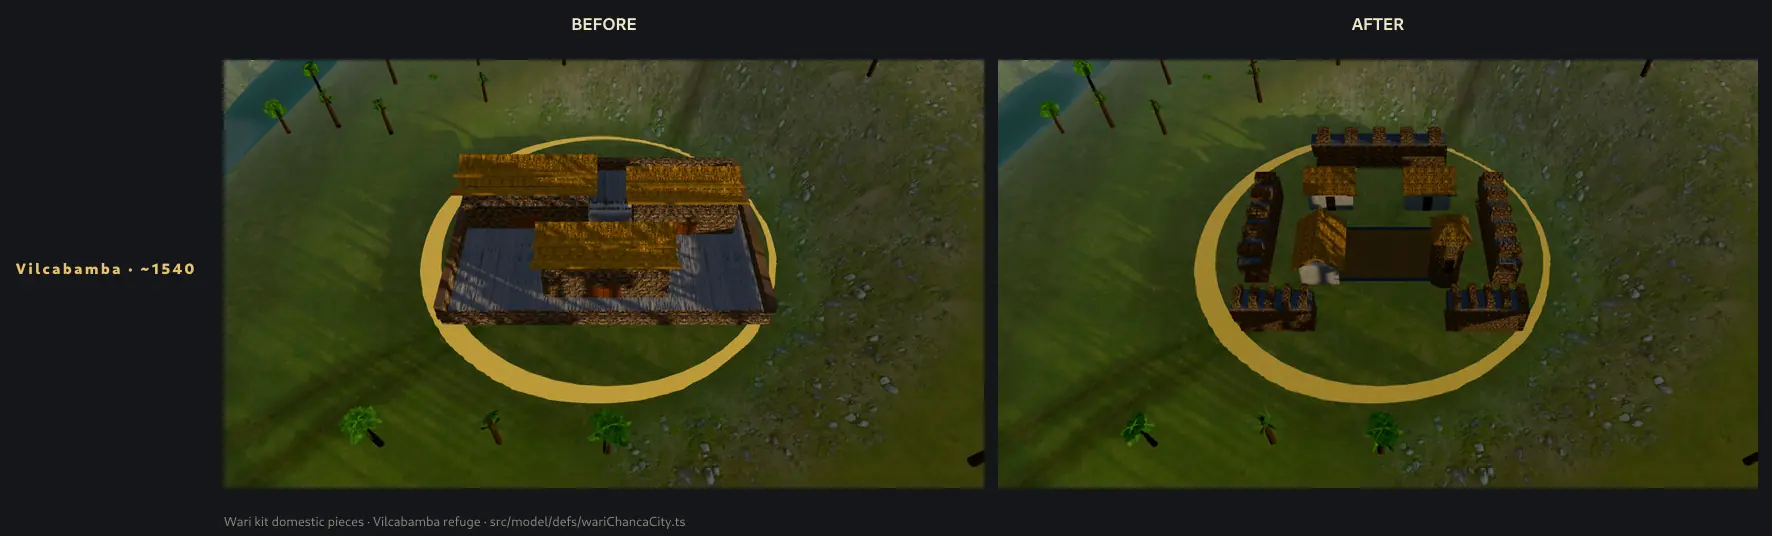
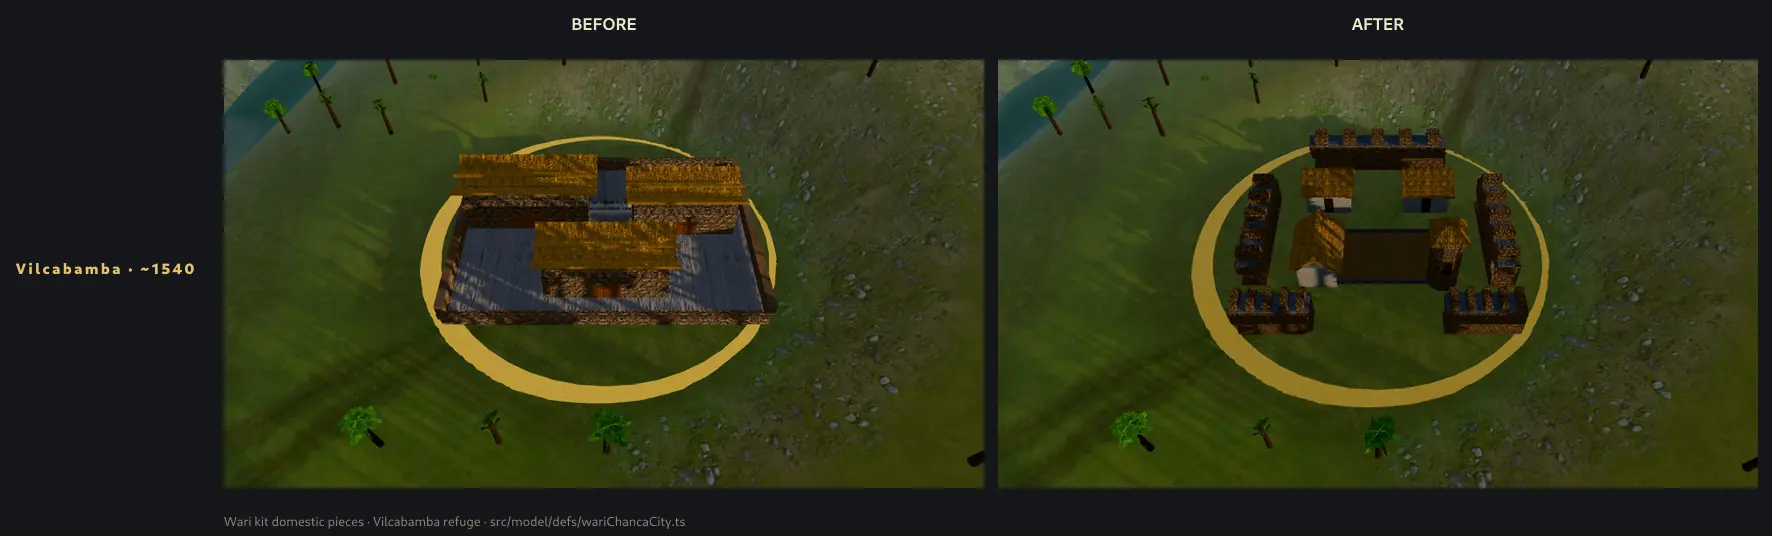
fix(architecture): anchor the refuge and finish the landmark retirement
Review fixes on the Vilcabamba change:

- Anchor `vilcabamba_site` on the refuge (180, 97) instead of the Chanca point 68 m away, so the camera,
  `ref: 'landmark'` and the corridor agree with the layout.
- Remove the leftovers of the `SiteLandmarks` removal: the unused `THREE` import and the dead
  `siteLandmarks` assertions (now impossible to satisfy), and the orphaned JSDoc in `Game` and
  `campaign/types.ts`.
- Cover the refuge in the Wari kit test (layout assets, spacing, gate open, blockers) and document the
  gate as about 9 m.
- Sync the living docs that still called the refuge procedural: art-direction §4.2, the quality bar,
  the visual pilot, the asset-corrections log and the kit doc's site list and pad table.

diff --git a/tests/wari-architecture-kit.test.ts b/tests/wari-architecture-kit.test.ts
@@ -8,8 +8,11 @@ import {
   CHANCA_CITY_LAYOUT,
   WARI_CITY_ANCHOR,
   WARI_CITY_LAYOUT,
+  VILCABAMBA_REFUGE_ANCHOR,
+  VILCABAMBA_REFUGE_LAYOUT,
   WARI_KIT_FOOTPRINTS,
   chancaCityBlockers,
+  vilcabambaRefugeBlockers,
   wariCityBlockers,
 } from '../src/model/defs/wariChancaCity';
 import { AUTHORED_SITES } from '../src/model/defs/sites';
@@ -122,7 +125,7 @@ describe('wari architecture kit', () => {
   });
 
   it('places every layout asset from the kit', () => {
-    for (const layout of [WARI_CITY_LAYOUT, CHANCA_CITY_LAYOUT]) {
+    for (const layout of [WARI_CITY_LAYOUT, CHANCA_CITY_LAYOUT, VILCABAMBA_REFUGE_LAYOUT]) {
       for (const placement of layout) {
         expect(names, `${placement.asset} in the kit`).toContain(placement.asset);
       }
@@ -174,7 +177,7 @@ describe('highland layouts', () => {
   });
 
   it('leaves ≥2 m between buildings; the pucará walls and towers meet at their corners', () => {
-    for (const layout of [WARI_CITY_LAYOUT, CHANCA_CITY_LAYOUT]) {
+    for (const layout of [WARI_CITY_LAYOUT, CHANCA_CITY_LAYOUT, VILCABAMBA_REFUGE_LAYOUT]) {
       const solid = layoutBlockers(
         layout.filter((placement) => !placement.lift),
         WARI_KIT_FOOTPRINTS,
@@ -203,10 +206,22 @@ describe('highland layouts', () => {
     }
   });
 
+  it('draws the Vilcabamba refuge with its south gate open', () => {
+    const blockers = vilcabambaRefugeBlockers();
+    const a = VILCABAMBA_REFUGE_ANCHOR;
+    expect(blockers).toHaveLength(9);
+    expect(blockersCover(blockers, a.x, a.z - 11), 'north wall').toBe(true);
+    expect(blockersCover(blockers, a.x - 10.5, a.z), 'west wall').toBe(true);
+    expect(blockersCover(blockers, a.x - 4.6, a.z - 5), 'longhouse').toBe(true);
+    expect(blockersCover(blockers, a.x, a.z + 2), 'plaza').toBe(false);
+    expect(blockersCover(blockers, a.x, a.z + 9), 'south gate').toBe(false);
+  });
+
   it('is the collision each site uses', () => {
     expect(AUTHORED_SITES.wari_site.blockers).toEqual(wariCityBlockers());
     expect(AUTHORED_SITES.chanca_site.blockers).toEqual(chancaCityBlockers());
-    for (const id of ['wari_site', 'chanca_site'] as const) {
+    expect(AUTHORED_SITES.vilcabamba_site.blockers).toEqual(vilcabambaRefugeBlockers());
+    for (const id of ['wari_site', 'chanca_site', 'vilcabamba_site'] as const) {
       expect(AUTHORED_SITES[id].simulationCollision, id).toBe(true);
       expect(AUTHORED_SITES[id].style, id).toBe('wari');
       expect(AUTHORED_SITES[id].hideModel, id).toBe(true);

diff --git a/tests/site-landmarks.test.ts b/tests/site-landmarks.test.ts
@@ -1,4 +1,3 @@
-import * as THREE from 'three';
 import { describe, expect, it } from 'vitest';
 import { MISSIONS } from '../src/campaign/defs/campaign';
 import { CivId, Era } from '../src/core/types';
@@ -19,7 +18,6 @@ describe('mission site landmarks', () => {
     // Quipaipán and Cusco 1536 share one authored site and one composition (cuscoCity.ts): showing the grey
     // ushnu GLB in one campaign and the finished city in the other was the inconsistency this pins shut.
     for (const id of ['m_cusco_1536', 'm6b_guerra_civil']) {
-      expect(mission(id).layout?.siteLandmarks, id).toBeUndefined();
       expect(mission(id).layout?.site?.id, id).toBe('cusco_inca_site');
       expect(mission(id).layout?.site?.hideModel, id).toBe(true);
     }
@@ -36,9 +34,6 @@ describe('mission site landmarks', () => {
   it('draws the Republican sites from the kit and hides the borrowed GLBs', () => {
     // Arica, Real Felipe and Tarapacá no longer use mission-scoped procedural landmarks: the Republican
     // kit draws their compositions from one shared layout-and-blocker source.
-    for (const id of ['m9_guerra_pacifico', 'm_real_felipe', 'm_tarapaca']) {
-      expect(mission(id).layout?.siteLandmarks, id).toBeUndefined();
-    }
     for (const siteId of ['arica_site', 'real_felipe_site', 'tarapaca_site'] as const) {
       const site = getAuthoredSite(siteId)!;
       expect(site.hideModel, siteId).toBe(true);
@@ -53,9 +48,6 @@ describe('mission site landmarks', () => {
   });
 
   it('draws the Independence sites from the kit and hides the borrowed GLB', () => {
-    for (const id of ['m8_independencia', 'm_brena']) {
-      expect(mission(id).layout?.siteLandmarks, id).toBeUndefined();
-    }
     for (const siteId of ['independence_site', 'brena_site'] as const) {
       const site = getAuthoredSite(siteId)!;
       expect(site.hideModel, siteId).toBe(true);

diff --git a/src/campaign/types.ts b/src/campaign/types.ts
@@ -114,8 +114,8 @@ export interface MissionSite {
   /** Vertical offset of the model floor in world metres. */
   y?: number;
   /**
-   * Mission-scoped replacement of the authored GLB by the mission's procedural landmarks.
-   * Needed when two missions share a site but only one should drop the bundled model (Cusco).
+   * Drops the bundled site GLB (the site's architecture kit draws instead). Needed when two missions share a
+   * site but only one should drop the model (Cusco).
    */
   hideModel?: boolean;
   /** Optional camera framing anchor for the intro. */
@@ -164,10 +164,6 @@ export interface MissionLayout {
   setpiece?: MissionSetpiece;
   /** Authored site model; takes precedence over the modular setpiece. */
   site?: MissionSite;
-  /**
-   * Mission-scoped procedural landmarks that complete or replace the authored site model (the
-   * Vilcabamba refuge; Cusco and the Republican sites draw from their kits).
-   */
   terrain?: TerrainLayout;
   /** Authored canal used by a mission mechanic (visual-only geometry + a reach target). */
   canal?: MissionCanal;

diff --git a/tests/tarapaca.test.ts b/tests/tarapaca.test.ts
@@ -83,7 +83,6 @@ describe('Tarapacá battle contract', () => {
     expect(blockersCover(site.blockers, 106, 168), 'the east approach must stay walkable').toBe(false);
     expect(blockersCover(site.blockers, 160, 123), 'the crest has its parapet').toBe(true);
     expect(blockersCover(site.blockers, 198, 158), 'Pachica has its corral').toBe(true);
-    expect(mTarapaca.layout?.siteLandmarks).toBeUndefined();
     expect(mTarapaca.layout?.terrain?.flats?.map((f) => f.name)).not.toContain('Alturas');
     expect(mTarapaca.mapOverrides?.resources?.scatter).toBe(0);
     expect(mTarapaca.mapOverrides?.culturalLandscape).toBeNull();

diff --git a/src/model/defs/wariChancaCity.ts b/src/model/defs/wariChancaCity.ts
@@ -88,7 +88,7 @@ export function chancaCityBlockers() {
  * longhouses, a small plaza, a perimeter wall and the Huayna Pucará tower. It is a late-Inca settlement, not
  * an imperial complex, so the D-shaped temple, the galleries and the niches stay out of it.
  *
- * The perimeter wall keeps a **5 m gate** on the south side: the refuge must never be a sealed box (the
+ * The perimeter wall keeps a **wide south gate** (about 9 m): the refuge must never be a sealed box (the
  * no-walkable-building rule needs a way in for the mission's columns).
  */
 export const VILCABAMBA_REFUGE_ANCHOR = { x: 180, z: 97 } as const;

diff --git a/src/core/Game.ts b/src/core/Game.ts
@@ -243,7 +243,6 @@ export class Game {
   colonialSite: ColonialLife | null = null;
   /** The loaded authored site GLB, so a founding can hide it until the city phase. */
   siteModel: THREE.Group | null = null;
-  /** Mission-scoped procedural landmarks that complete or replace the authored site model. */
   /** Presentation-only construction crew in the Caral camp (issue 422); null elsewhere. */
   siteCrew: SiteCrew | null = null;
   /** Named environmental events and their progress (0 = off, 1 = fully applied). */

diff --git a/src/model/defs/sites.ts b/src/model/defs/sites.ts
@@ -1174,10 +1174,10 @@ export const AUTHORED_SITES: Record<AuthoredSiteId, AuthoredSiteDef> = {
     modelName: 'chanca_site',
     hideModel: true,
     style: 'wari',
-    scale: chancaLength(0.7),
-    origin: chancaPoint({ x: 112.4, z: 60.8 }),
-    anchor: chancaPoint({ x: 112.4, z: 60.8 }),
-    cameraHeight: chancaLength(48),
+    scale: 1,
+    origin: { x: 180, z: 97 },
+    anchor: { x: 180, z: 97 },
+    cameraHeight: 50,
     framing: 'site-biased',
     heightField: {
       size: CHANCA_HEIGHTMAP_SIZE,

diff --git a/docs/design/wari-chanca-sites.md b/docs/design/wari-chanca-sites.md
@@ -1,8 +1,9 @@
 # Wari kit: Wari complex and Chanca pucará
 
-The two highland missions draw their architecture from a shared Blender kit: the Wari complex (`m4_wari`)
-and the Chanca pucará of Yahuar Pampa (`m5_yahuar_pampa`). Both are project-owned representative massings,
-**not surveys and not historical photographs**.
+The highland missions draw their architecture from a shared Blender kit: the Wari complex (`m4_wari`), the
+Chanca pucará of Yahuar Pampa (`m5_yahuar_pampa`) and the Vilcabamba refuge (`m_vilcabamba`, which uses the
+kit's domestic pieces). They are project-owned representative massings, **not surveys and not historical
+photographs**.
 
 ## Sources
 
@@ -18,9 +19,10 @@ and the Chanca pucará of Yahuar Pampa (`m5_yahuar_pampa`). Both are project-own
   Kit scene `art-src/blender/scenes/wari_architecture_kit.blend` (Git LFS); uncompressed exports and
   per-piece manifests in `art-src/blender/exports/wari/architecture/`; the game copies are meshopt-
   compressed with `yarn art:models --only=<file>`.
-- Layout: [`../../src/model/defs/wariChancaCity.ts`](../../src/model/defs/wariChancaCity.ts) places both
+- Layout: [`../../src/model/defs/wariChancaCity.ts`](../../src/model/defs/wariChancaCity.ts) places the three
   compositions and derives each site's blockers from the same placements (`layoutBlockers`).
-  `WorldViewDecor` bakes them with `ArchitectureCity`; both sites set `hideModel` and `simulationCollision`.
+  `WorldViewDecor` bakes them with `ArchitectureCity`; all three sites set `hideModel` and
+  `simulationCollision`.
   The old `wari_site` and `chanca_fortress` GLBs stay in the registry and are no longer drawn.
 - `?lod=0` previews LOD0.
 
@@ -35,6 +37,7 @@ below the temple.
 | --- | --- |
 | Complejo Wari (`wariHeightmap.ts`) | 5.0 m (x 127–175, z 90–142 flat) |
 | Pucará chanca (`chancaHeightmap.ts`) | 5.0 m (x 168–196, z 82–110 flat) |
+| Refugio de Vilcabamba (`vilcabambaHeightmap.ts`) | 5.0 m (x 168–196, z 85–109 flat) |
 
 The Wari composition stays on that flat core (the pad falls away west of x 127), so every piece seats within
 0.1 m; the pucará sits on its own 5.0 m terrace.

diff --git a/docs/plan/0.2.1-asset-corrections.md b/docs/plan/0.2.1-asset-corrections.md
@@ -135,7 +135,7 @@ Add one focused test file (or extend `tests/model-assets.test.ts` if it exists) 
 | 5 | P1-4 | Cusco and Sacsayhuamán: plaza, ushnu and a wall front; or relabel the scene as the siege camp. **Done:** the Cusco architecture kit draws the plaza, tiered ushnu, kallankas and the Sacsayhuamán wall front with its three towers. | `cuscoCity.ts`, `build_cusco_architecture_kit.py` | M |
 | 6 | P1-3 | Real Felipe: minimal bastioned plan (four bastions, ditch, wall). **Done:** the Republican kit's bastioned trace (four curtains, four bastions, magazine, well and sally gates) replaces the Arica battery. | `republicCity.ts`, `build_republic_architecture_kit.py` | M |
 | 7 | P1-5 | Tarapacá: quebrada heightfield and adobe village. **Done:** the site moved to the quebrada, and the Republican kit draws the adobe village, chapel, crest and Pachica hamlet. | `republicCity.ts`, `build_republic_architecture_kit.py` | M |
-| 8 | P1-6 | Vilcabamba: low cloud-forest platform, not the Chanca hillfort. **Done:** low platform and longhouses replace the Chanca pucará. | `sites.ts`, `vilcabamba*`, `SiteLandmarks.ts` | M |
+| 8 | P1-6 | Vilcabamba: low cloud-forest platform, not the Chanca hillfort. **Done:** low platform and longhouses replace the Chanca pucará. | `sites.ts`, `vilcabamba*`, `wariChancaCity.ts` | M |
 | 9 | P1-1 | `colonial-andean` profile for the Inca after 1532 (fieldstone, thatch, partial tile), or a rebel camp kit. **Done:** fieldstone/plaster walls, thatch with a tile patch and terraced foundations. | `architecture.ts`, `ProceduralModel.ts` | M |
 
 **P1 acceptance**

diff --git a/docs/design/campaign-quality-bar.md b/docs/design/campaign-quality-bar.md
@@ -494,11 +494,11 @@ The 2026-11-18 pass completed the conquest-to-Vilcabamba arc:
   the Cusco Blender kit (shared with `m6b`). It takes Sacsayhuamán, holds the Cusco siege through a food-consuming «siembra» and
   withdraws to Ollantaytambo with Manco alive. Real-command test: `tests/e2e/cusco-1536.spec.ts`. Open: human
   no-cheat playtest and the mission's own art review.
-- **`m_vilcabamba`** adds `vilcabamba_site`, drawing a low cloud-forest platform and longhouses in place of the
+- **`m_vilcabamba`** adds `vilcabamba_site`, drawing a low cloud-forest refuge from the highland kit's domestic pieces in place of the
   Chanca hillfort GLB. It defends Huayna Pucará, evacuates Vilcabamba (the expedition burns it) and saves
 the court at the lower
   Urubamba; the capture and execution are told in the epilogue. Real-command test:
-  `tests/e2e/vilcabamba.spec.ts`. The procedural site was accepted as an abstraction on 2026-11-23 (Miguel
+  `tests/e2e/vilcabamba.spec.ts`. The kit refuge keeps the abstraction accepted on 2026-11-23 (Miguel
   Amaya); open: human no-cheat playtest.
 
 Both have dossier, design document, tutorial, educational entry, own in-engine captures, epilogue and the

diff --git a/docs/design/art-direction.md b/docs/design/art-direction.md
@@ -134,8 +134,7 @@ colonial cities (Lima 1535/1821, Cusco 1780/1814, Miraflores: `colonialCity.ts`)
 (Arica, Real Felipe, Tarapacá: `republicCity.ts`), Independencia/Breña (`independenceCity.ts`), the
 north-coast sites (Huacas de Moche and Chan Chan: `mocheChimuCity.ts`) and the highland sites (Wari and the
 Chanca pucará: `wariChancaCity.ts`) are on the whole standard, blockers included. Caral (m1) and Chavín (m2)
-draw from a kit but keep hand-written blocker arrays, and Vilcabamba and the rest of Tambotoco are still to
-be moved to it.
+draw from a kit but keep hand-written blocker arrays; only the rest of Tambotoco is still to be moved to it.
 
 The Tambotoco site uses a **domestic Killke/ayllu language**, not imperial Inca (see
 [`../historia/arquitectura.md`](../historia/arquitectura.md) §1):

diff --git a/docs/art/character-visual-pilot.md b/docs/art/character-visual-pilot.md
@@ -486,7 +486,7 @@ other. Each one had its own cause.
 - **Units through houses.** Sites drawn only with a renderer did not reach the navigation grid. Cusco and the
   Republican sites (Arica, Real Felipe, Tarapacá) now derive their blockers from the kit layout
   (`layoutBlockers`); the remaining procedural landmark (Vilcabamba) still registers its halls through
-  `siteLandmarkObstacles`. Walls, terraces, trenches and corrals stay walkable where the battlefield needs it.
+  the site layout blockers. Walls, terraces, trenches and corrals stay walkable where the battlefield needs it.
 
 `verify:fast`, `bench:check`, `bench:characters`, the rig, mission and movement E2E specs are the gate.
 
